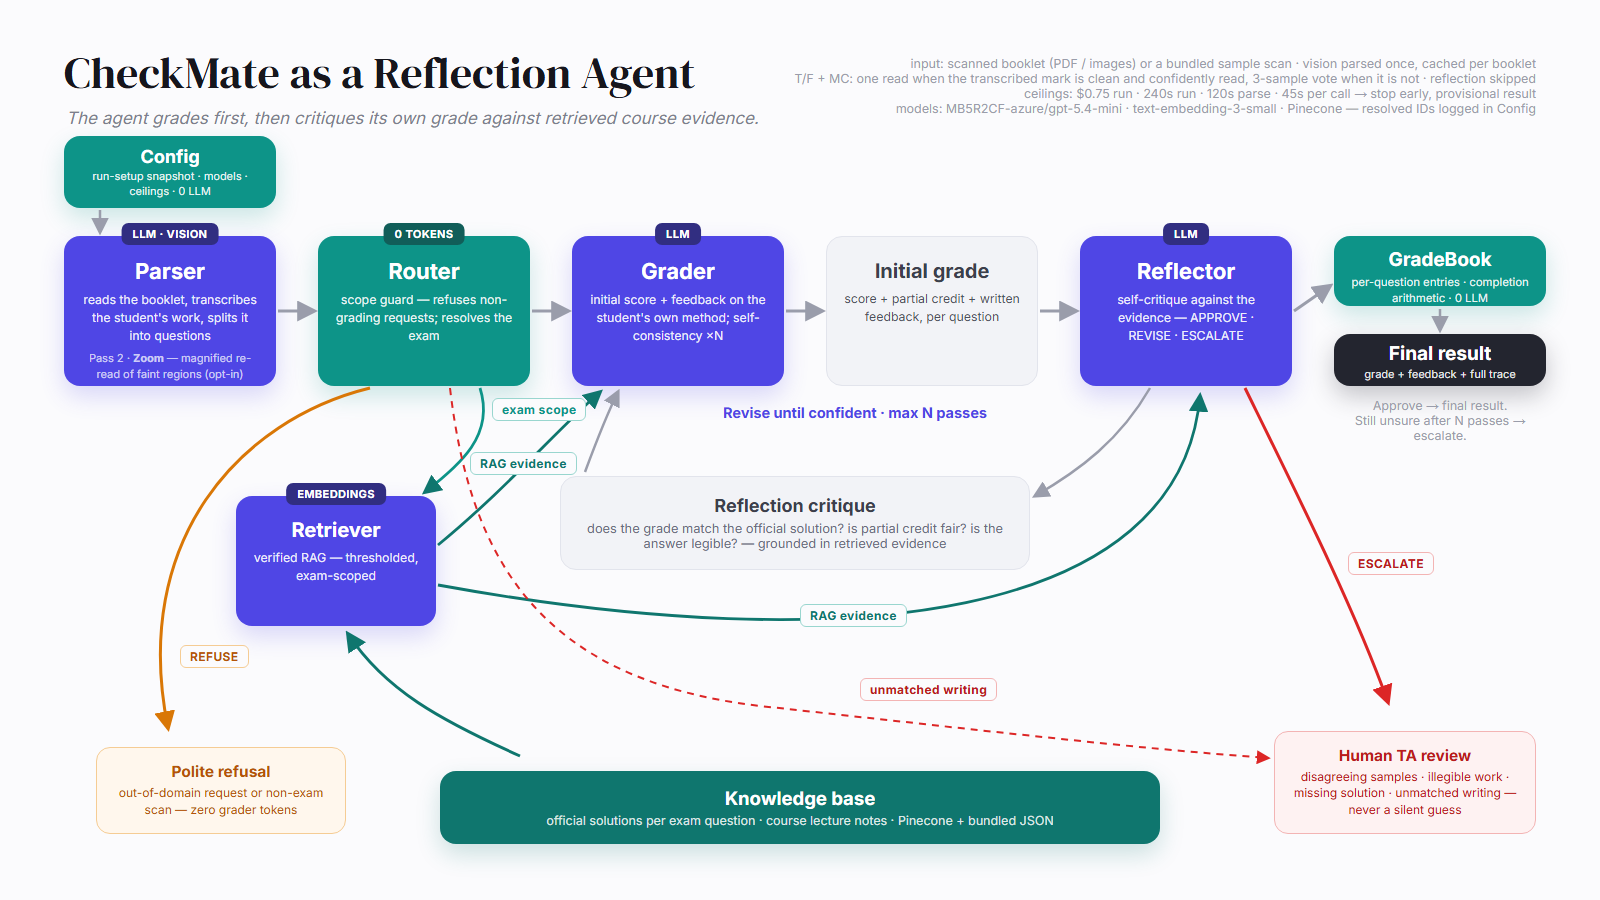
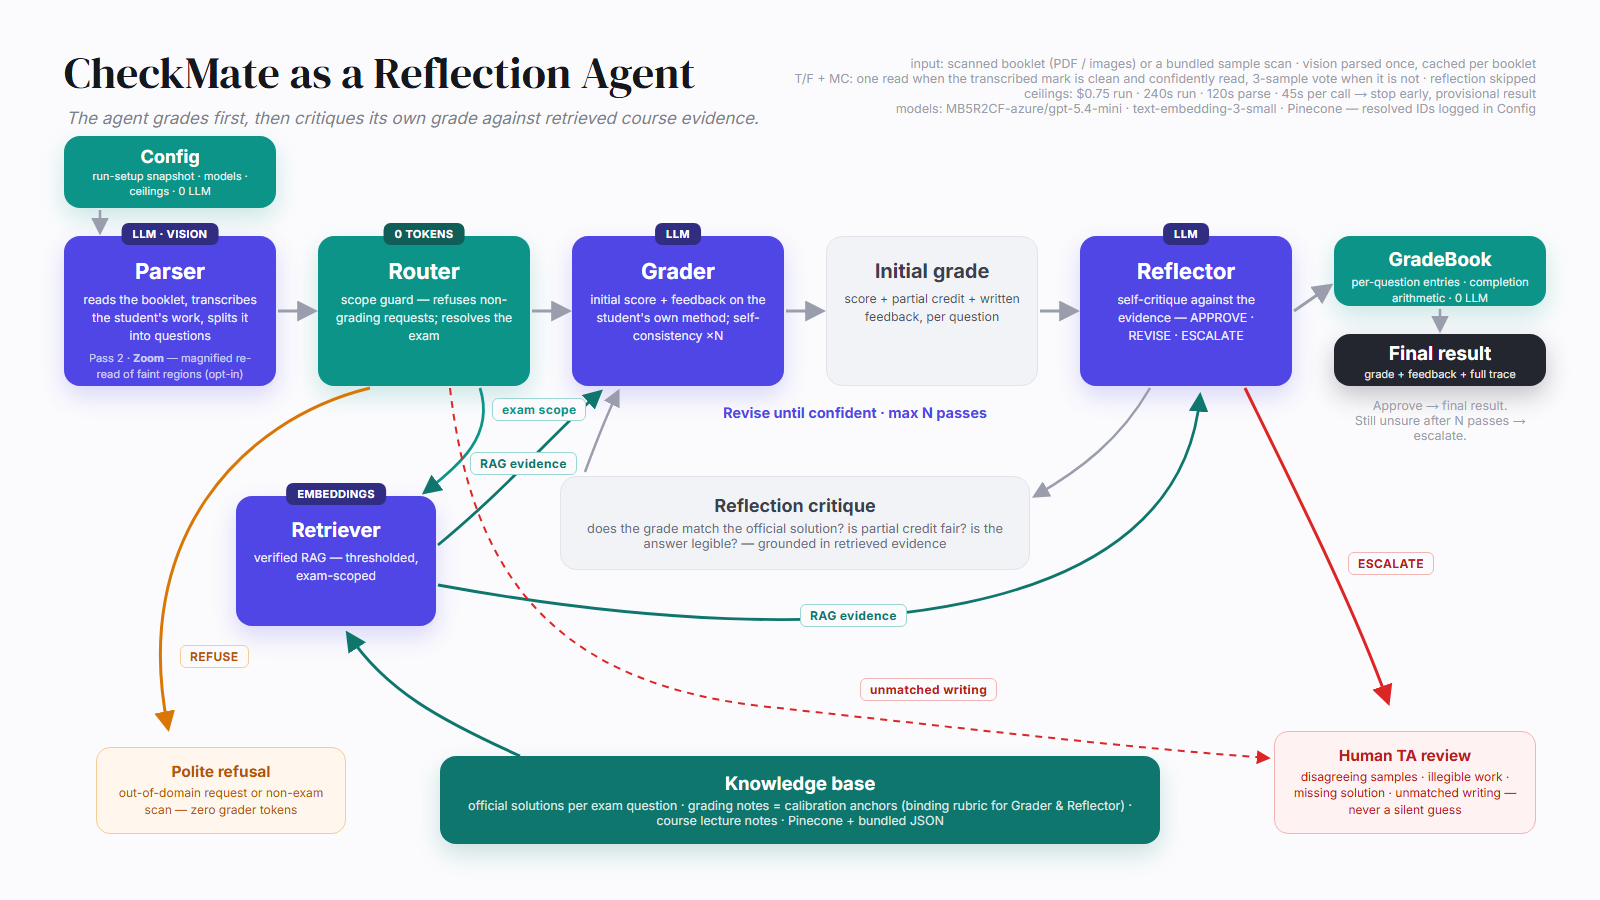
Round-11 fixes: solve-noun guard, no paid runs from generic aliases, evaluation disclosure
- Guard: solve/answer/compute now count question NOUNS as objects, not only
  determiners -- "Solve question 3 from the 104041 exam" evaded the
  determiner-only rule and, worse, its course number matched a generic sample
  alias and silently started a full paid grading run. "Write the official
  solution..." is tutoring intent too. 13-case suite green, including the
  round-11 consistency pair (solve/compute now behave identically).
- samples.py: generic exam aliases are gone -- a paid run starts only from an
  explicit booklet name or an uploaded file; generic mentions fall through to
  the zero-cost NEED_INPUT explainer that lists the samples by name. This
  also kills the "which booklet was graded?" ambiguity at the root: only the
  caller`s own explicit words can select one.
- Eval tab now discloses on-panel what the README already admitted: the
  Grader`s few-shots are calibrated on this same booklet`s red-pen scores, so
  the numbers measure consistency-with-calibration, not held-out
  generalization (third unseen booklet = roadmap).
- Diagram: KB caption names the grading-notes/calibration-anchors mechanism
  the Reflector treats as binding rubric (render eyeballed).
- regression_check: retrieval negative control -- foreign-exam content under
  this exam`s scope with an unknown id must find NO match. Green.

Changed region(s): [[0.25, 0.84, 0.75, 0.9333]]

diff --git a/templates/index.html b/templates/index.html
@@ -140,8 +140,11 @@
           </table>
         </div>
         <p class="hint">
-          <b>Known limits, stated plainly:</b> the evaluation corpus is two booklets of one paper —
-          these numbers are a regression tripwire, not a population estimate
+          <b>Known limits, stated plainly:</b> the evaluation corpus is two booklets of one paper,
+          and the Grader's few-shot examples are calibrated on this same booklet's red-pen scores —
+          so these numbers measure consistency-with-calibration, not held-out generalization
+          (a third, unseen booklet is the roadmap). They are a regression tripwire, not a
+          population estimate
           (<span class="mono">python scripts/regression_check.py</span> re-checks the bundled
           captures against the human ground truth). The once-contested Q2b key was settled by an
           offline SymPy check (0 real solutions); a scan re-audit then confirmed the human's 7/10

diff --git a/scripts/architecture.html b/scripts/architecture.html
@@ -81,7 +81,7 @@
 
   <div class="kb">
     <h3>Knowledge base</h3>
-    <p>official solutions per exam question · course lecture notes · Pinecone + bundled JSON</p>
+    <p>official solutions per exam question · grading notes = calibration anchors (binding rubric for Grader &amp; Reflector) · course lecture notes · Pinecone + bundled JSON</p>
   </div>
 
   <div class="refuse"><h3>Polite refusal</h3><p>out-of-domain request or non-exam scan — zero grader tokens</p></div>

diff --git a/checkmate/guard.py b/checkmate/guard.py
@@ -45,9 +45,15 @@ _MATH_RE = re.compile(
 # "step by step" describe a lesson, not a grading job -- even when grading verbs appear.
 _TUTOR_RE = re.compile(
     r"\b(teach|explain|tutor|walk me through|show me how|step[- ]by[- ]step|how (?:do|to))\b|"
-    # imperative solve/answer requests ("Solve this exam question for me") are lesson
-    # requests too -- an object determiner keeps this from firing on descriptive uses
-    r"\b(?:solve|answer|compute|calculate)\s+(?:this|that|the|my|these|a|an)\b|"
+    # imperative solve/answer requests are lesson requests too. Determiners AND question
+    # nouns both count as objects ("solve THIS", "solve QUESTION 3", "answer Q3") -- the
+    # determiner-only version let "solve question 3 from the exam" through (audit round 11).
+    # Descriptive uses stay safe: "solved" has no word boundary, and a grading verb
+    # ("check how the student solved...") overrides tutor intent in classify().
+    r"\b(?:solve|answer|compute|calculate)\s+(?:this|that|the|my|these|a|an"
+    r"|questions?|problems?|exercises?|q\s*\d|ex\.?\s*\d)\b|"
+    # "write (out) the (official) solution" is a request to produce a solution, not grade one
+    r"\bwrite\s+(?:out\s+)?(?:the\s+|a\s+)?(?:official\s+|full\s+|complete\s+)?solutions?\b|"
     r"תלמד|למד אותי|תסביר|הסבר|צעד אחר צעד|פתור|תפתור|פתרי|לפתור",
     re.IGNORECASE)
 

diff --git a/checkmate/samples.py b/checkmate/samples.py
@@ -29,11 +29,13 @@ SAMPLES: list[dict] = [
         # (GUI button, result card, replay) quotes, so the teacher's grade can never appear
         # as two different figures depending on where you read it.
         "human_total": 90,
-        # `specific` names THIS booklet unambiguously; `aliases` are generic exam terms that
-        # only apply when no booklet is named explicitly (resolution is specific-first, so
-        # "sample booklet 2 from 104041" can never fall back to booklet 1 via "104041").
+        # A paid grading run starts ONLY from an explicit booklet name (or an uploaded
+        # file). Generic exam terms ("104041", "moed a") used to alias to this booklet and
+        # silently started a real run the caller never asked for -- e.g. a solve request
+        # that mentioned the course number (audit round 11). Those now fall through to the
+        # zero-cost NEED_INPUT explainer, which lists the samples by name.
         "specific": r"sample\s*(?:booklet\s*)?(?:#\s*)?1\b|booklet\s*1\b|first\s+(?:sample|booklet)|scored\s*90|\b90/100",
-        "aliases": r"2024\s*w(?:inter)?|winter\s*2024|moed\s*a|104041|מועד\s*א",
+        "aliases": r"(?!x)x",  # no generic aliases -- reachable only by name
         # Rendered page previews bundled under static/ so the GUI can SHOW what was graded.
         "pages": 18,
         "pages_prefix": "/static/samples/sample1",

diff --git a/scripts/regression_check.py b/scripts/regression_check.py
@@ -133,6 +133,25 @@ for fname, has_truth, label in BOOKLETS:
             check(f"{fname}: {qid} within {TOLERANCE} of human", abs(q["score"] - human) <= TOLERANCE,
                   f"agent {q['score']} vs human {human}")
 
+# --- Retrieval negative control (audit round 11): content from ANOTHER exam, under this
+# exam's scope, with an id the KB does not hold, must produce NO match (-> the escalated
+# unmatched bucket), never a look-alike grounding. Offline: Pinecone is forced off so the
+# check exercises the content-overlap + exact-id fallbacks deterministically.
+sys.path.insert(0, ROOT)
+import checkmate.retriever as _retr  # noqa: E402
+from checkmate.llm import StepLog as _StepLog  # noqa: E402
+
+_had = _retr.HAS_PINECONE
+_retr.HAS_PINECONE = False
+try:
+    foreign = _retr.retrieve(
+        "Q9x", "Find the eigenvalues of the matrix A and prove the rank-nullity theorem "
+               "for the linear transformation T", _StepLog(), exam="2024w moed A")
+    check("negative control: foreign-exam content finds no match", foreign is None,
+          str(foreign and foreign.entry.id))
+finally:
+    _retr.HAS_PINECONE = _had
+
 print()
 print("REGRESSION:", "ALL GREEN" if not fails else f"{len(fails)} FAILED: {fails}")
 sys.exit(1 if fails else 0)
